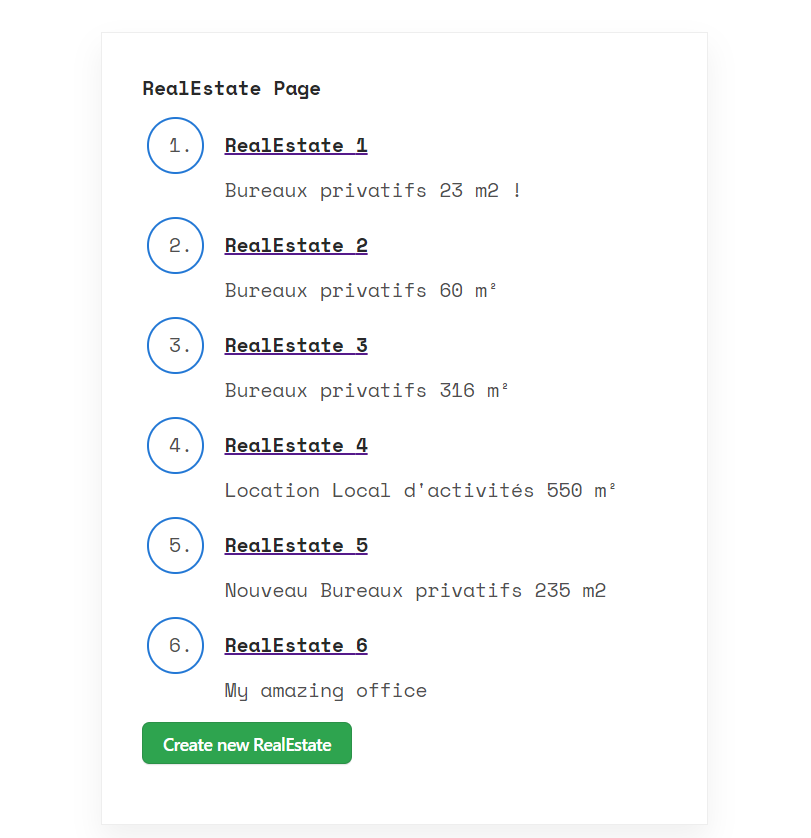
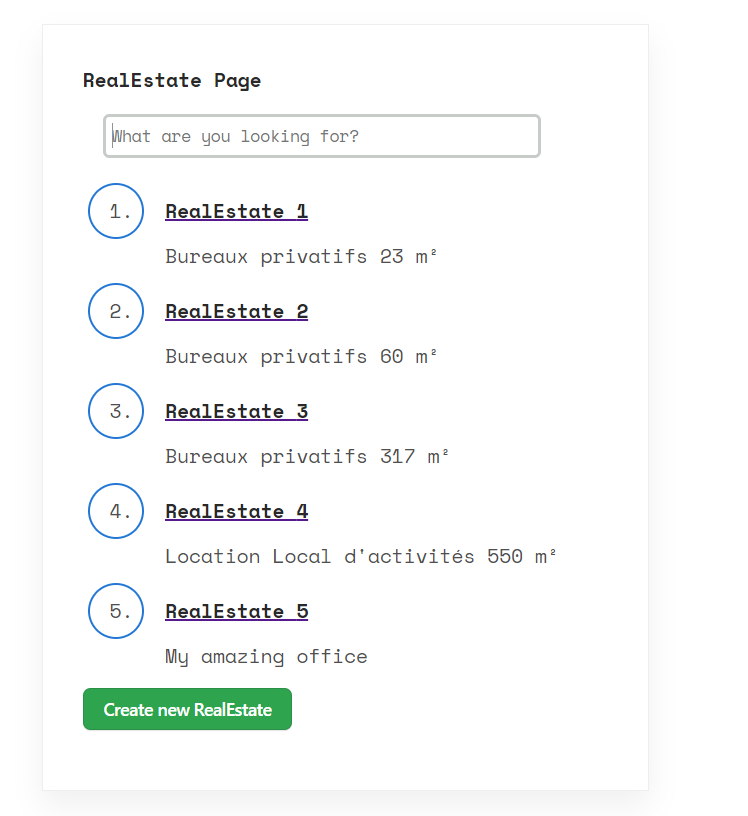
frontend: add search bar

diff --git a/frontend/src/pages/Items.js b/frontend/src/pages/Items.js
@@ -1,19 +1,34 @@
 import { Link, json, useLoaderData, useNavigate } from "react-router-dom";
 import classes from "./Items.module.css";
+import { useState } from "react";
 
 export default function ItemsPage() {
   const data = useLoaderData();
+  const [filterValue, setFilterValue] = useState("");
   const navigate = useNavigate();
   const navigateHandler = () => {
     navigate("add");
   };
-  console.log(data)
+  const changeHandler = (event) => {
+    setFilterValue(event.target.value);
+  };
+
   return (
     <>
       <strong>RealEstate Page</strong>
 
+        <div className={classes["search"]}>
+          <input
+            type="text"
+            className={classes["searchTerm"]}
+            placeholder="What are you looking for?"
+            onChange={changeHandler}
+          />
+        </div>
+
       <ol className={classes["alternating-colors"]}>
         {data
+          .filter((item) => item.title.includes(filterValue))
           .sort(function (a, b) {
             return a.id - b.id;
           })
@@ -30,10 +45,7 @@ export default function ItemsPage() {
       </ol>
 
       <p>
-        <button
-          onClick={navigateHandler}
-          className={classes["button-3"]}
-        >
+        <button onClick={navigateHandler} className={classes["button-3"]}>
           Create new RealEstate
         </button>
       </p>
@@ -52,7 +64,7 @@ export async function loadAllRealEstate() {
   if (!response.ok) {
     const errorMessage = await response.text();
     throw json(
-      { message: "Could not fetch realestate items : " +  errorMessage},
+      { message: "Could not fetch realestate items : " + errorMessage },
       {
         status: 500,
       }

diff --git a/frontend/src/pages/Items.module.css b/frontend/src/pages/Items.module.css
@@ -1,3 +1,49 @@
+.search {
+  width: 100%;
+  position: relative;
+  display: flex;
+  margin-left: 1rem;
+  margin-right: 1rem;
+  margin-bottom: 2rem;
+  margin-top: 1rem;
+}
+
+.searchTerm {
+  width: 80%;
+  border: 3px solid #c8ccc9;
+  padding: 5px;
+  height: 20px;
+  border-radius: 5px;
+  outline: none;
+  color: #9DBFAF;
+  font-family: 'Space Mono', monospace; 
+}
+
+.searchTerm:focus{
+  color: #8d9596;
+}
+
+.searchButton {
+  width: 4rem;
+  height: 3rem;
+  border: 1px solid #00B4CC;
+  background: #00B4CC;
+  text-align: center;
+  color: #fff;
+  border-radius: 0 5px 5px 0;
+  cursor: pointer;
+  font-size: 20px;
+}
+
+/*Resize the wrap to see the search bar change!*/
+.wrap{
+  width: 30%;
+  position: absolute;
+  top: 5%;
+  left: 50%;
+  transform: translate(-50%, -50%);
+}
+
 ol { padding-left: 50px; }
 li { 
   color: #4F4F4F; 

diff --git a/README.md b/README.md
@@ -61,7 +61,7 @@ that will be stored in the local storage of your browser:
 
 ![alt text](assets/unauthorized.PNG)
 
-5. With this token you will have access to the list of real estate items in the postgres database:
+5. With this token you will have access to the list of real estate items in the postgres database. You have also a search bar that will filter the description :
 
 ![alt text](assets/realestate_page.PNG)
 
